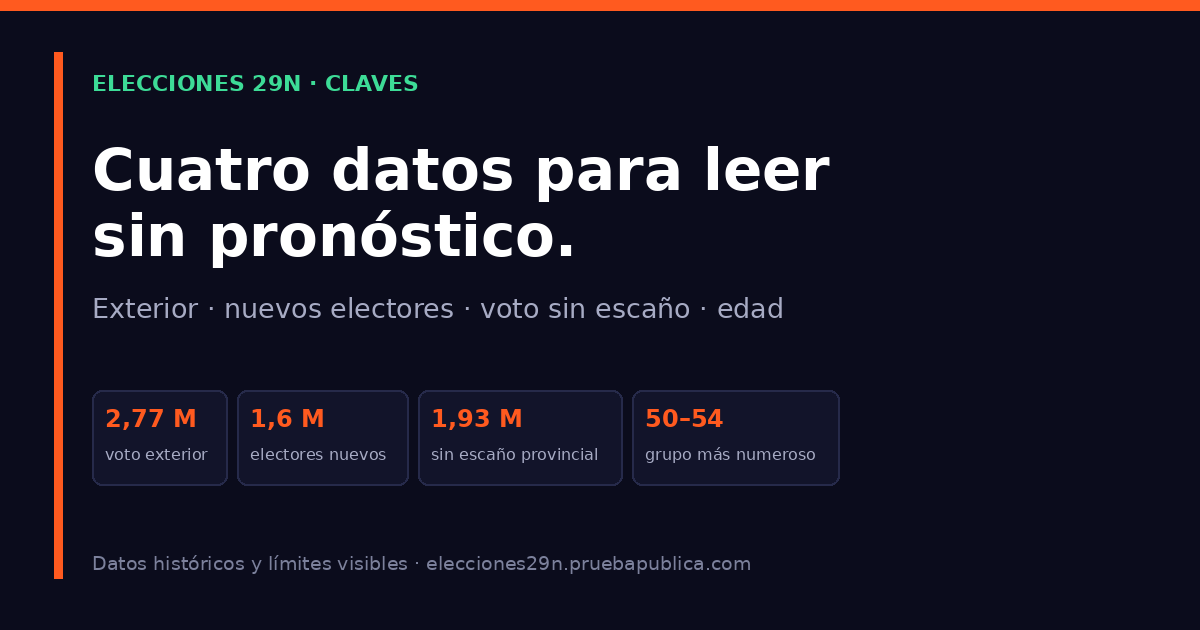
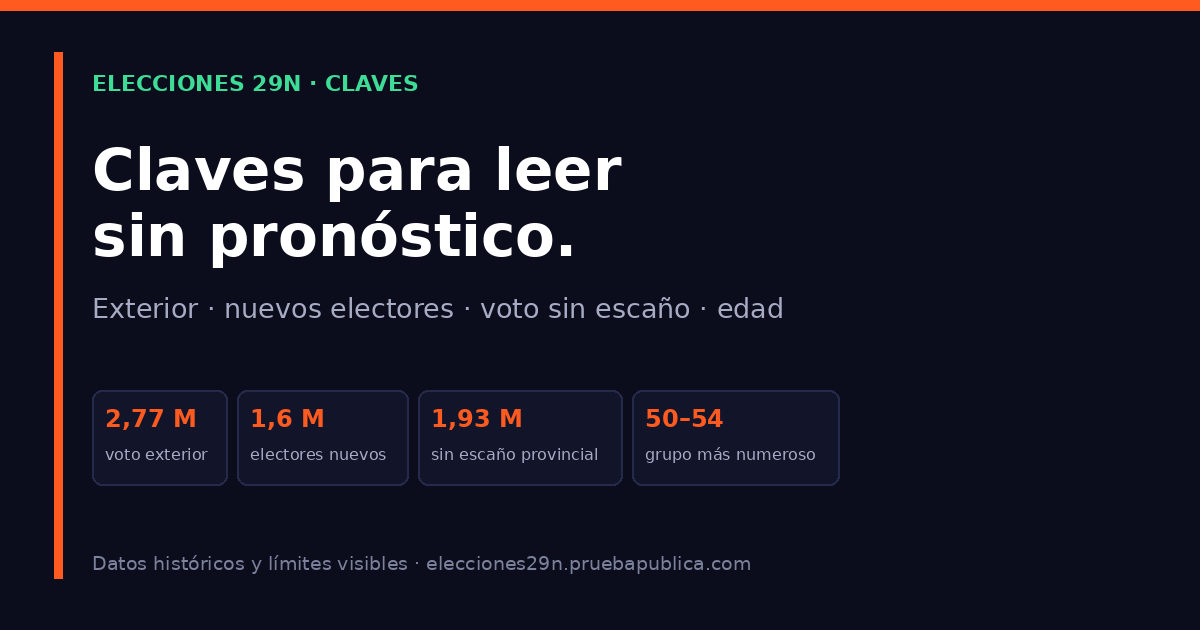
web: mejorar barras y tabla de Claves

Changed region(s): [[0.1233, 0.2413, 0.7092, 0.3317]]

diff --git a/gen/build.py b/gen/build.py
@@ -2475,7 +2475,7 @@ def main(out: str = "web") -> None:
         "factores_jsonld": build_factores_jsonld(),
         "m4_jsonld": build_m4_jsonld(),
         "noche_jsonld": build_webpage_jsonld("Noche electoral 29N", "/noche-electoral.html", "Qué se publica, cuándo y con qué fuente."),
-        "claves_jsonld": build_webpage_jsonld("Claves del 29N", "/claves.html", "Cuatro datos para leer el 29N sin pronóstico: voto exterior, electores nuevos, voto sin escaño y estructura por edad."),
+        "claves_jsonld": build_webpage_jsonld("Claves del 29N", "/claves.html", "Datos para leer el 29N sin pronóstico: voto exterior, electores nuevos, voto sin escaño y estructura por edad."),
         "webpages": {
             "lideres.html": build_webpage_jsonld("Valoración de líderes", "/lideres.html", "Valoración 1–10 de cuatro líderes según el CIS de octubre de 2026. Una sola casa y una sola ola."),
             "candidatos.html": build_webpage_jsonld("Candidatos y cabezas de lista", "/candidatos.html", "Cabezas de lista proclamados BOE/JEC y menciones en titulares, 24 h y 7 días. No es intención de voto."),

diff --git a/scripts/canary_live.py b/scripts/canary_live.py
@@ -149,7 +149,7 @@ def main() -> int:
         except Exception as e:
             errors.append(f"latest.json inválido: {e}")
 
-    for _path, _needle in (("/claves.html", "Cuatro datos"),
+    for _path, _needle in (("/claves.html", "Claves para leer"),
                            ("/glosario.html", "Glosario"),
                            ("/robustez.html", "Robustez del dato"),
                            ("/hemiciclo.html", "Simulación nacional de escaños"),
